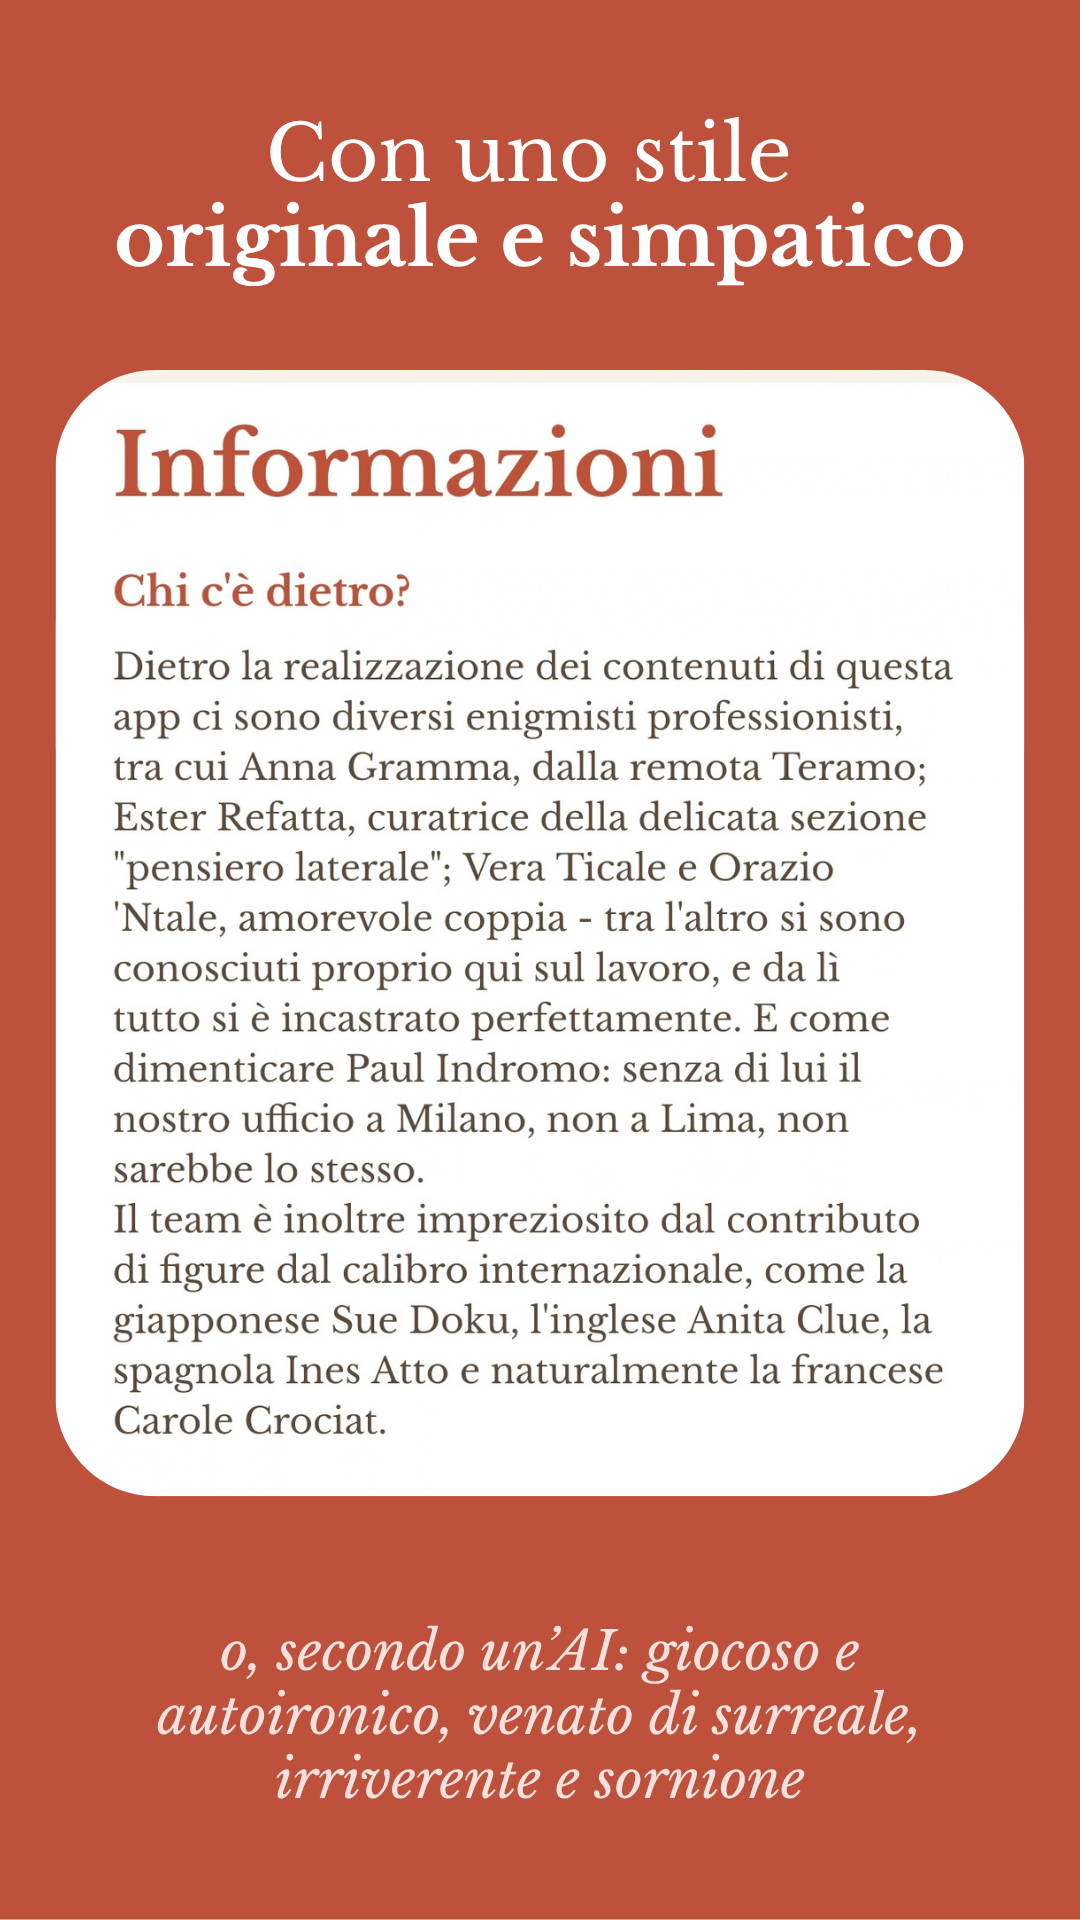
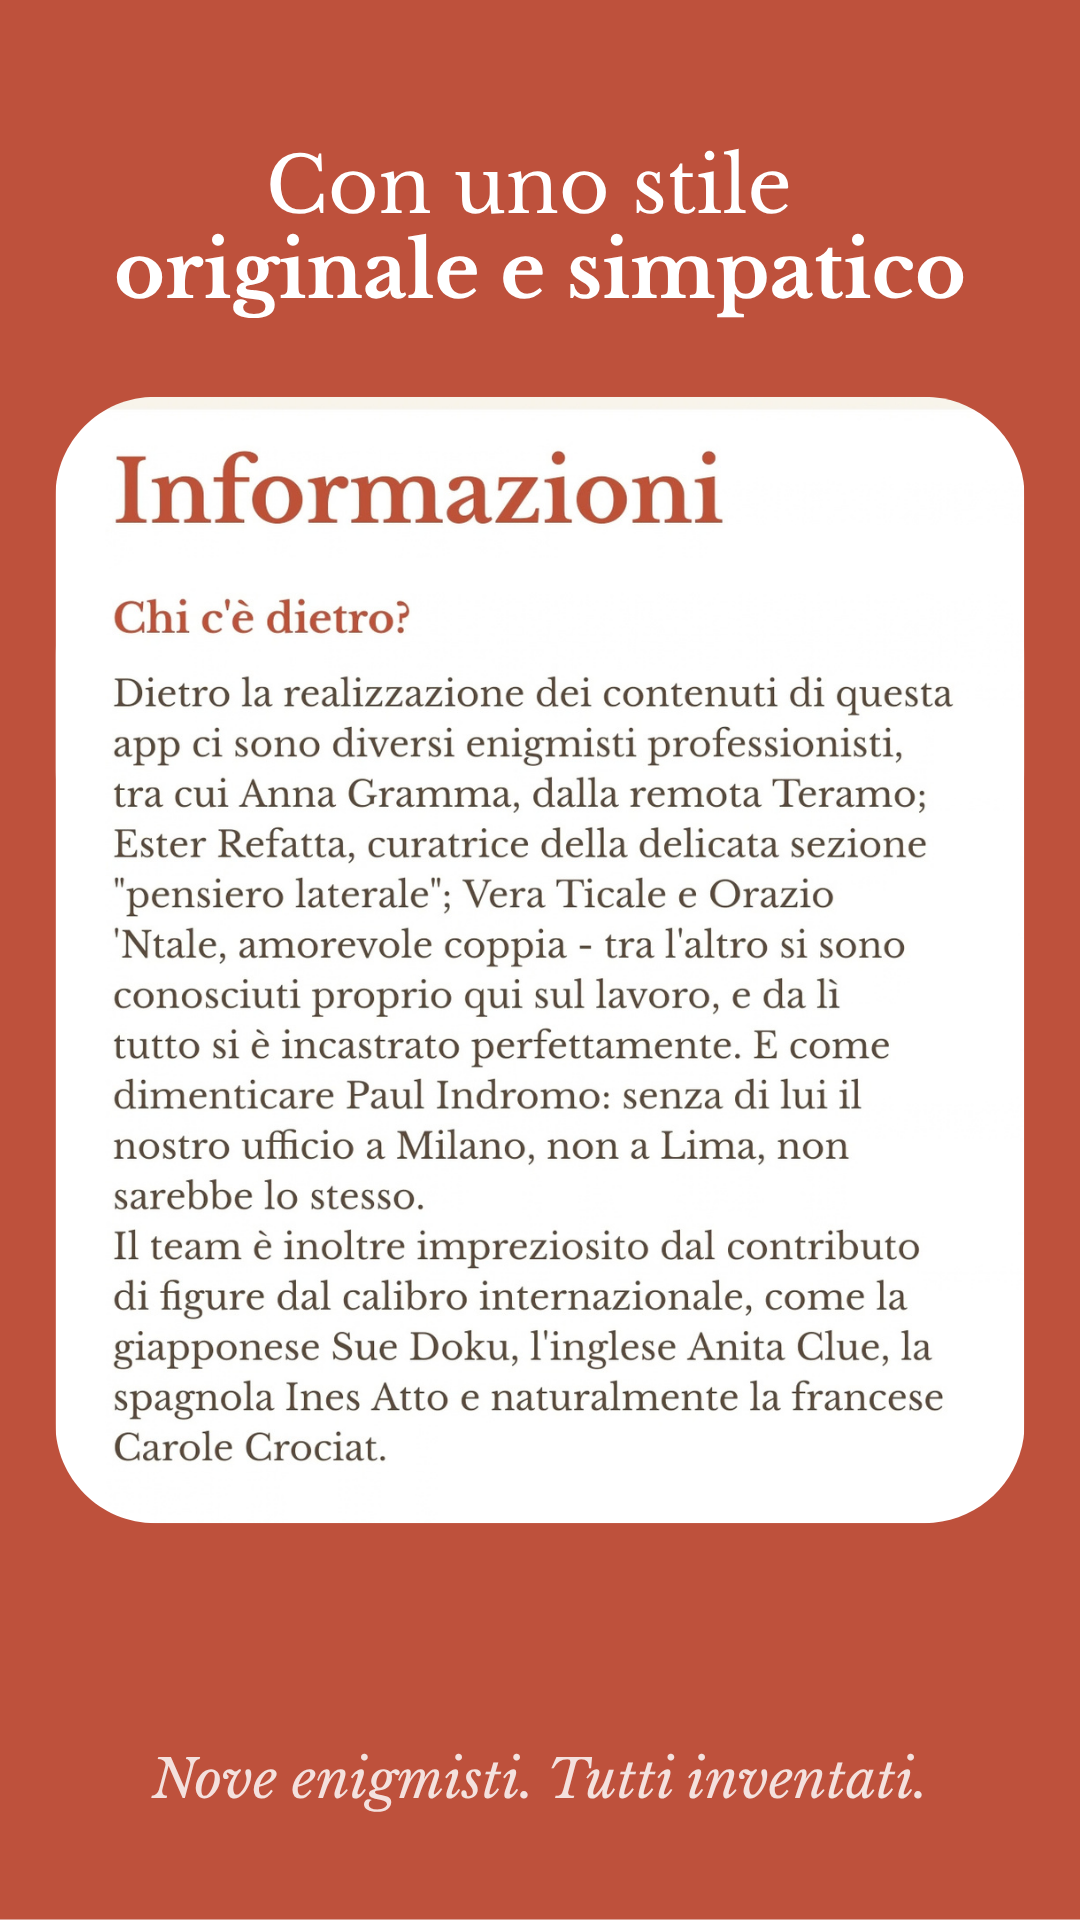
content fix

Changed region(s): [[0.0306, 0.0625, 0.9472, 0.8125], [0.1528, 0.8438, 0.8556, 0.9375]]

diff --git a/index.html b/index.html
@@ -200,11 +200,14 @@
       /* font-size: 0.875rem;
       color: var(--text-muted);
       line-height: 1.6; */
-      font-size: clamp(0.9375rem, 2.2vw, 1.125rem);
-      font-style: italic;
+      /* font-size: 0.935rem; */
+      font-size: clamp(0.875rem, 1.6vw, 0.975rem);
+      /* font-size: clamp(0.9375rem, 2.2vw, 1.125rem); */
+      /* font-size: clamp(0.9375rem, 2.2vw, 1.125rem); */
+      /*font-style: italic;*/
       color: var(--text-muted);
       line-height: 1.65;
-      max-width: 60ch;
+      max-width: 66ch;
       /* The horizontal `auto` is what centres the block: with max-width 60ch
          inside an 860px container, setting it to 0 pins the box flush left and
          the centred text goes with it. Keep `auto`; vary only top and bottom. */
@@ -213,22 +216,8 @@
       text-wrap: balance;
     }
 
-    /* What the weekly edition gives everyone, and what Pro adds. Shares the
-       geometry of .games-note but drops the italic: that one is an aside, this
-       is information people act on. */
-    .access-note {
-      font-size: clamp(0.875rem, 2vw, 1rem);
-      color: var(--text-muted);
-      line-height: 1.65;
-      max-width: 58ch;
-      margin: 18px auto 0px;
-      text-align: center;
-      text-wrap: balance;
-    }
-
     @media (max-width: 600px) {
-      .games-note  { margin-top: 26px; }
-      .access-note { margin-top: 14px; }
+      .games-note { margin-top: 26px; }
     }
 
     /* ── Screenshot grid ── */
@@ -311,6 +300,18 @@
     .card-logic     h3 { color: var(--c-logic); }
     .card-words     h3 { color: var(--c-words); }
 
+    /* The "how it works" card, full width under the four categories. `1 / -1`
+       rather than `span 2` so it still spans correctly once the grid collapses
+       to a single column below 600px. Ink rather than one of the four section
+       hues: it explains the catalogue above it, so it should not read as a
+       fifth category. */
+    .card-howto {
+      grid-column: 1 / -1;
+    }
+
+    /* .card-howto h3 { color: var(--brand); } */
+    .card-howto h3 { color: #585453; }
+
     /* ── Responsive ── */
     @media (max-width: 600px) {
       nav    { flex-direction: column; align-items: center; gap: 2px; padding: 14px 20px; }
@@ -366,7 +367,7 @@
     <section class="hero">
       <h1>Enigmistics</h1>
       <p class="hero-desc">
-        Giochi enigmistici tradizionali e puzzle logici, arricchiti da varianti per mettere alla prova i tuoi neuroni. Nuova edizione ogni venerdì.
+        Tutta l'enigmistica - classica e varianti - in un'unica app, con nuovi giochi ogni settimana
       </p>
       <div class="download-group">
         <a class="btn btn-primary" href="#" aria-label="Scarica su App Store">
@@ -394,33 +395,35 @@
 
           <div class="game-card card-crosswords">
             <h3>Parole crociate</h3>
-            <p>Classiche di varie dimensioni, crittografate, senza schema, e infine varianti bifrontali, stenografiche, cicliche e a variazione d'estremi</p>
+            <p>Classiche di varie dimensioni, crittografate, senza schema, samurai e a scacchiera; poi le varianti bifrontali, stenografiche, cicliche e con libertà... estrema, e persino schemi in inglese</p>
           </div>
 
           <div class="game-card card-sudoku">
             <h3>Sudoku</h3>
-            <p>Classici, ma non troppo, con infatti dimensioni 2x3 e 3x3 ma anche 2x4, 3x4 e 4x4, insieme a varianti kropki, pari/dispari e consecutivo</p>
+            <p>Classici, ma non troppo: oltre ai 2x3 e 3x3, ci sono anche 2x4, 3x4 e 4x4, insieme alle varianti kropki, pari/dispari e consecutive</p>
           </div>
 
           <div class="game-card card-logic">
             <h3>Giochi di logica</h3>
-            <p>Grattacieli, un ulteriore variante del gioco del sudoku, e Abbicì, un gioco di incastri proposto in versione sia classica sia estesa, con anche la D</p>
+            <p>Grattacieli, un'ulteriore variante del sudoku, e Abbicì, un gioco di incastri proposto in versione sia classica sia estesa, con anche la D</p>
           </div>
 
           <div class="game-card card-words">
             <h3>Giochi di parole</h3>
-            <p>Anagrammi, palindromi, pangrammi, abbecedari, tautogrammi e molti altri, estratti dalle più famose opere letterarie</p>
+            <p>Anagrammi, palindromi, pangrammi, abbecedari, tautogrammi e altri ancora, tratti dalle più famose opere letterarie, insieme alla stimolante sezione del "pensiero laterale"</p>
+          </div>
+
+          <div class="game-card card-howto">
+            <h3>Come funziona?</h3>
+            <p>Ogni venerdì pubblichiamo una nuova edizione: un'intera serie di giochi, freschi di stampa (per modo di dire). Una parte è disponibile a tutti; il resto, archivio compreso, è riservato alla versione Pro. Ma niente paura: l'abbonamento mensile costa meno di un singolo numero settimanale di una classica rivista di enigmistica. Giusto il minimo indispensabile per tenere Anna Gramma lontana dai sindacati.</p>
           </div>
 
         </div>
 
-        <p class="games-note">
-          Design moderno; niente pubblicità; funziona anche offline; più di quaranta giochi in un'unica app; sudoku e giochi di logica sempre risolvibili per sola deduzione; parole crociate senza definizioni troppo astruse. Un lavoretto coi fiocchi.
-        </p>
+        <!-- <p class="games-note">
+          Design moderno; niente pubblicità; funziona anche offline; quarantadue giochi, tra classici e varianti, in un'unica app. Un lavoretto coi fiocchi, insomma; ma d'altronde, con una redazione che vanta firme come Ines Atto, Vera Ticale, Sue Doku e Paul Indromo, c'era da aspettarselo.
+        </p> -->
 
-        <p class="access-note">
-          Ogni venerdì una nuova edizione, con qualche gioco sempre libero. Con Enigmistics Pro si sbloccano tutti, insieme all'archivio completo delle edizioni passate.
-        </p>
       </div>
     </section>
 
